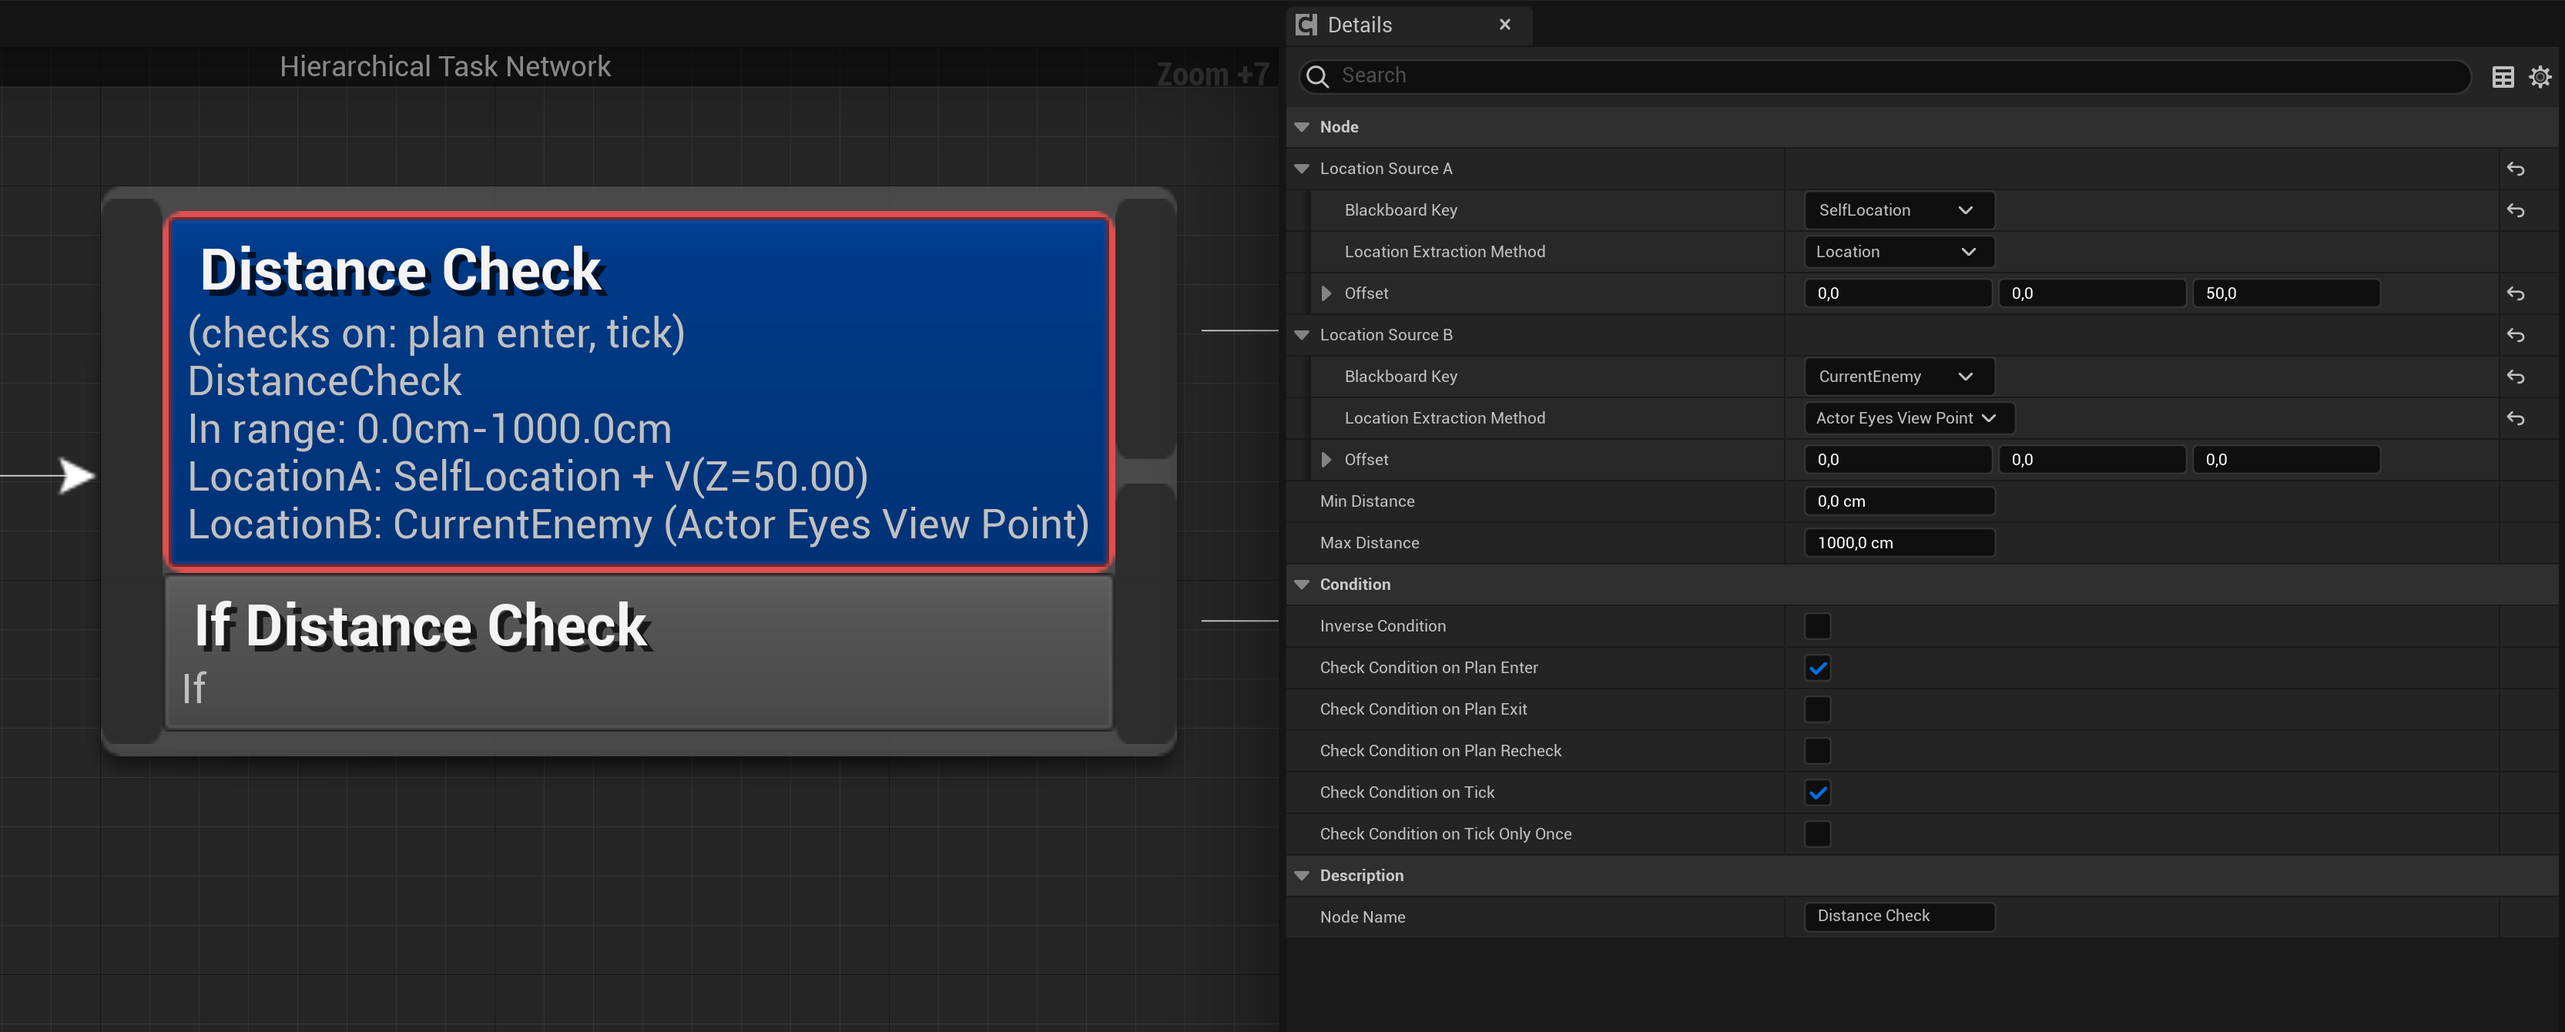
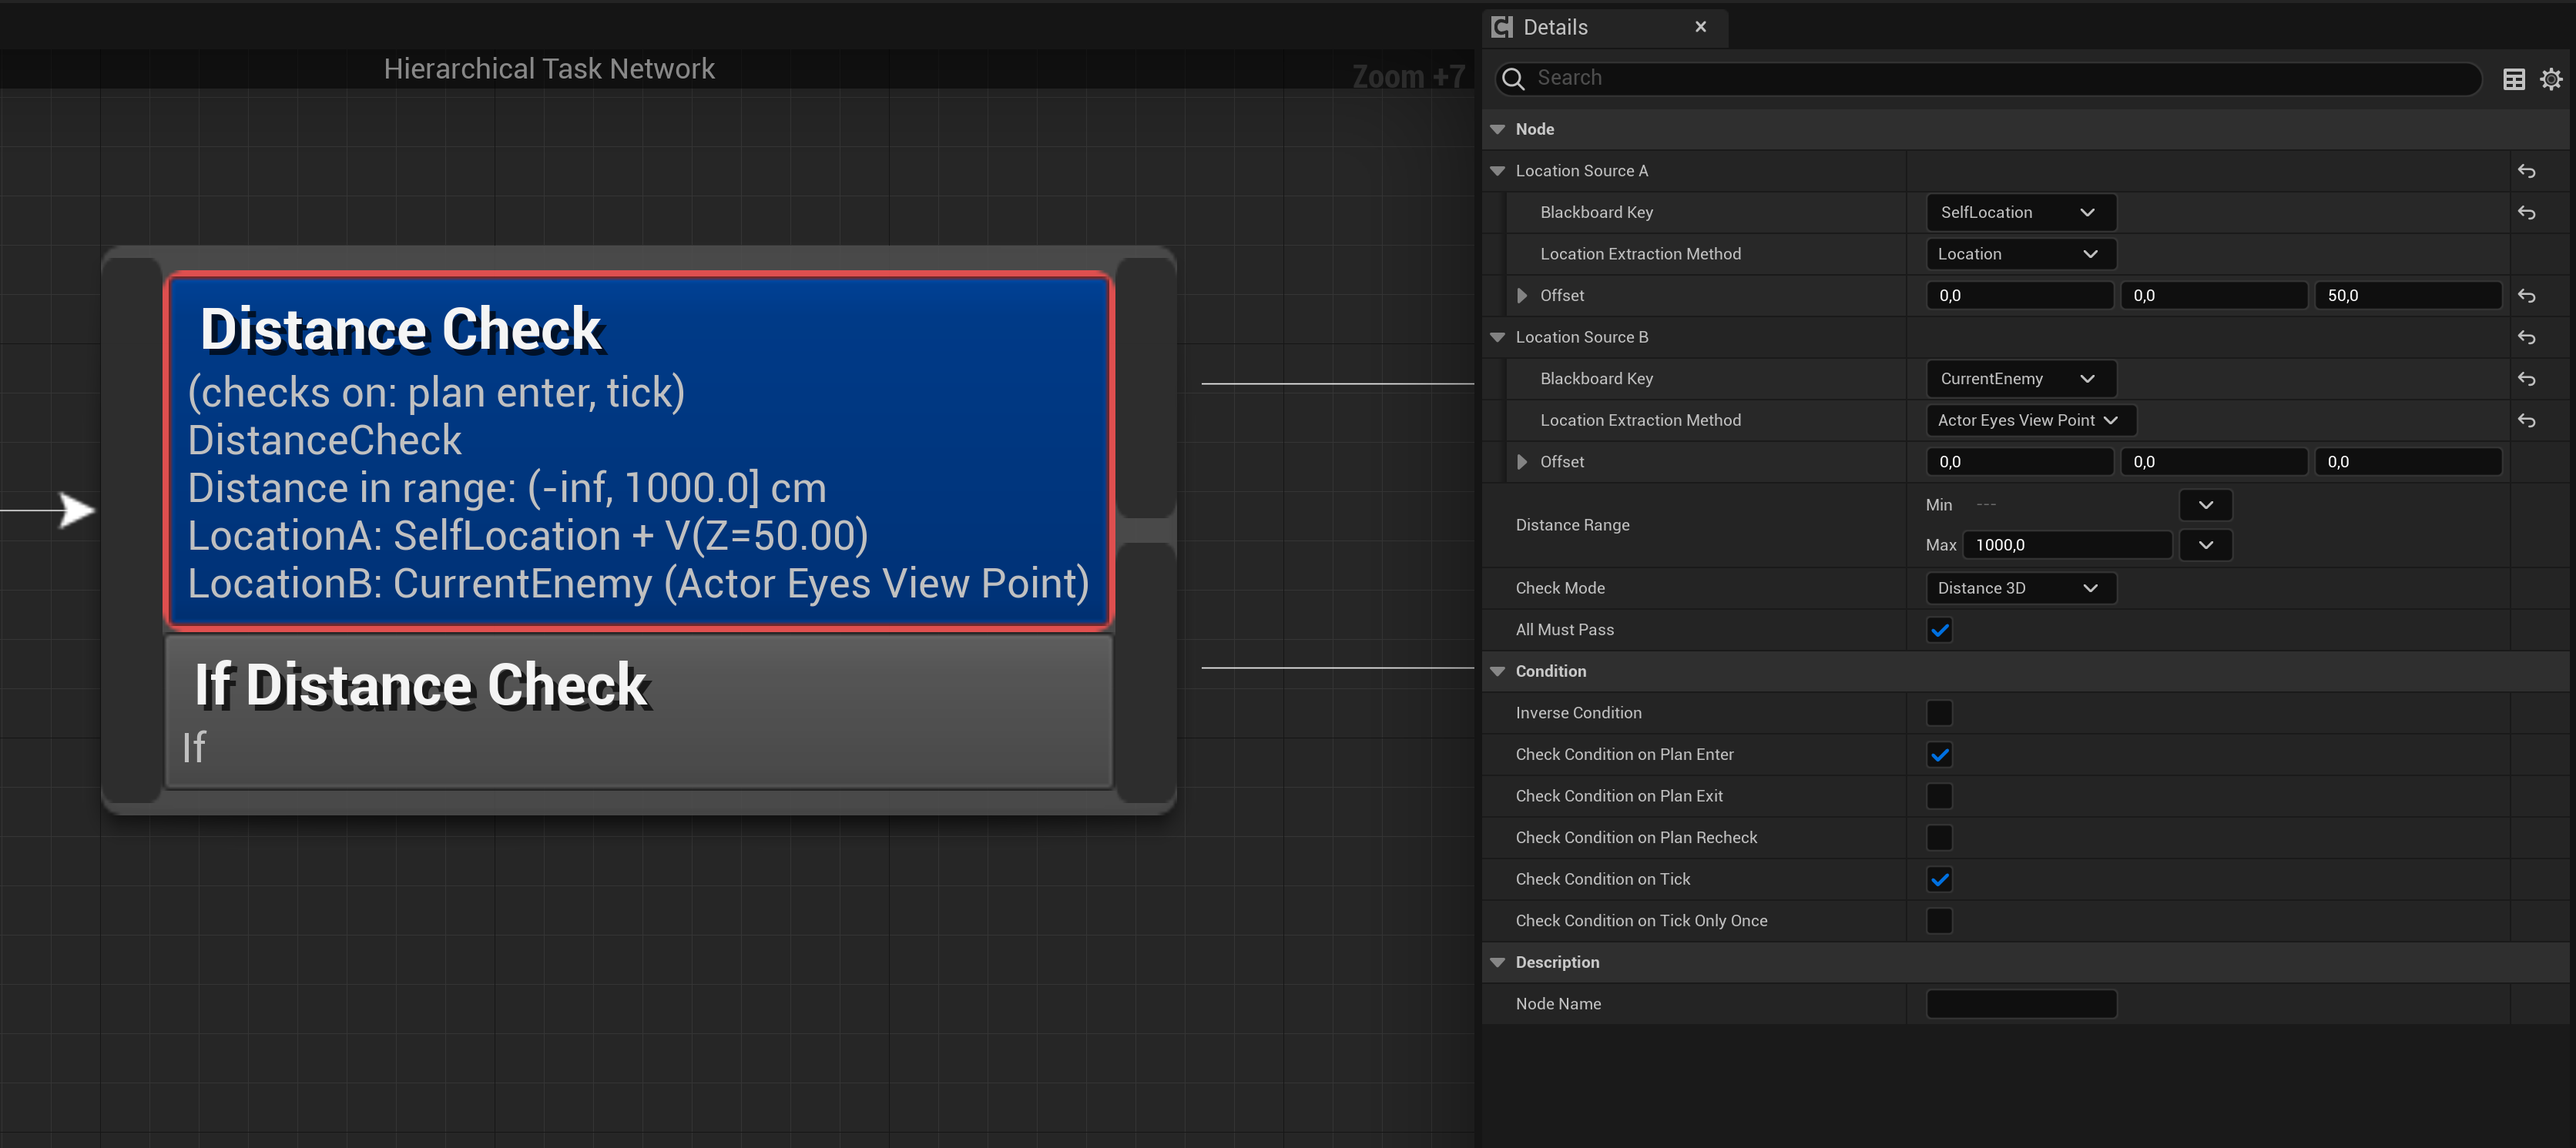
Updated Distance Check decorator

diff --git a/node-reference.md b/node-reference.md
@@ -159,8 +159,11 @@ Property|Description
 ---|---
 **A**|The [HTNLocationProvider](location-provider.md) for the first location.
 **B**|The [HTNLocationProvider](location-provider.md) for the second location.
-**Min Distance**|Minimum distance between the locations provided by **A** and **B**.
-**Max Distance**|Maximum distance between the locations provided by **A** and **B**.
+**Distance Range**|The decorator will pass if the distance between **A** and **B** is in this range. The minimum and maximum values can be inclusive, exclusive, or open.
+**Check Mode**|The way to measure the distance between **A** and **B**.<br><br><table><tbody>  <tr><td>**Distance 3D**</td><td>3D distance</td></tr>  <tr><td>**Distance 2D**</td><td>Distance if the Z of both locations was 0</td></tr>  <tr><td>**Distance Z (Signed)**</td><td>Signed vertical distance: (B.Z - A.Z). Will be negative if B is below A</td></tr> <tr><td>**Distance Z (Absolute)**</td><td>Absolute vertical distance</td></tr> <tr><td>**Capsule**</td><td>If there was a capsule centered at A with the specified half-height and radius, calculates the distance from B to the surface of that capsule. If B is inside the capsule, returns 0. Swapping A and B has no effect. When capsule radius is 0 (default), this is identical to **Distance 2D** when the points are *roughly* at the same height (less than **Capsule Half Height** difference) and similar to **Distance 3D** when the heights are different.</td></tr> </tbody></table>
+**Capsule Half Height**|Only relevant when the **Check Mode** is **Capsule**. The half-height of the capsule to which the distance is measured.
+**Capsule Radius**|Only relevant when the **Check Mode** is **Capsule**. The radius of the capsule to which the distance is measured.
+**All Must Pass**|If **A** or **B** provide multiple locations (e.g. A is configured to produce the locations of all allies and B is configured to produce the locations of all enemies), the distance test will run for all combinations of the two. If "All Must Pass" is true, the decorator will pass if all of them pass. Otherwise if any of them pass. Inverting the decorator inverts the final value of the decorator, not the individual checks against combinations.
 
 ### Do Once
 

diff --git a/changelog.md b/changelog.md
@@ -1,5 +1,14 @@
 This page contains release notes for updates of the plugin.
 
+## 1.10.0
+
+TODO this changelog is WiP
+
+- Improvements to the [DistanceCheck](node-reference?id=distance-check) decorator:
+    - The min and max distances for the decorator passes are now specified as a Range that may be unbounded, inclusive, or exclusive (used to be always inclusive)
+    - If the location sources provide multiple values, checks all combinations and passes if all combinations pass (default) or any combinations pass (if "All Must Pass" is disabled).
+    - Added more ways to measure the distance: Distance 3D (used to be the only option), Distance 2D, Distance Z (Signed), Distance Z (Absolute), Capsule (see [node reference](node-reference?id=distance-check) for details)
+
 ## 1.9.2
 
 - Fixed [TraceTest decorators](node-reference?id=trace-test) in the HTN asset retaining references to Play-in-editor actors in a Transient buffer, causing warnings related to Garbage Collection under rare circumstances.
